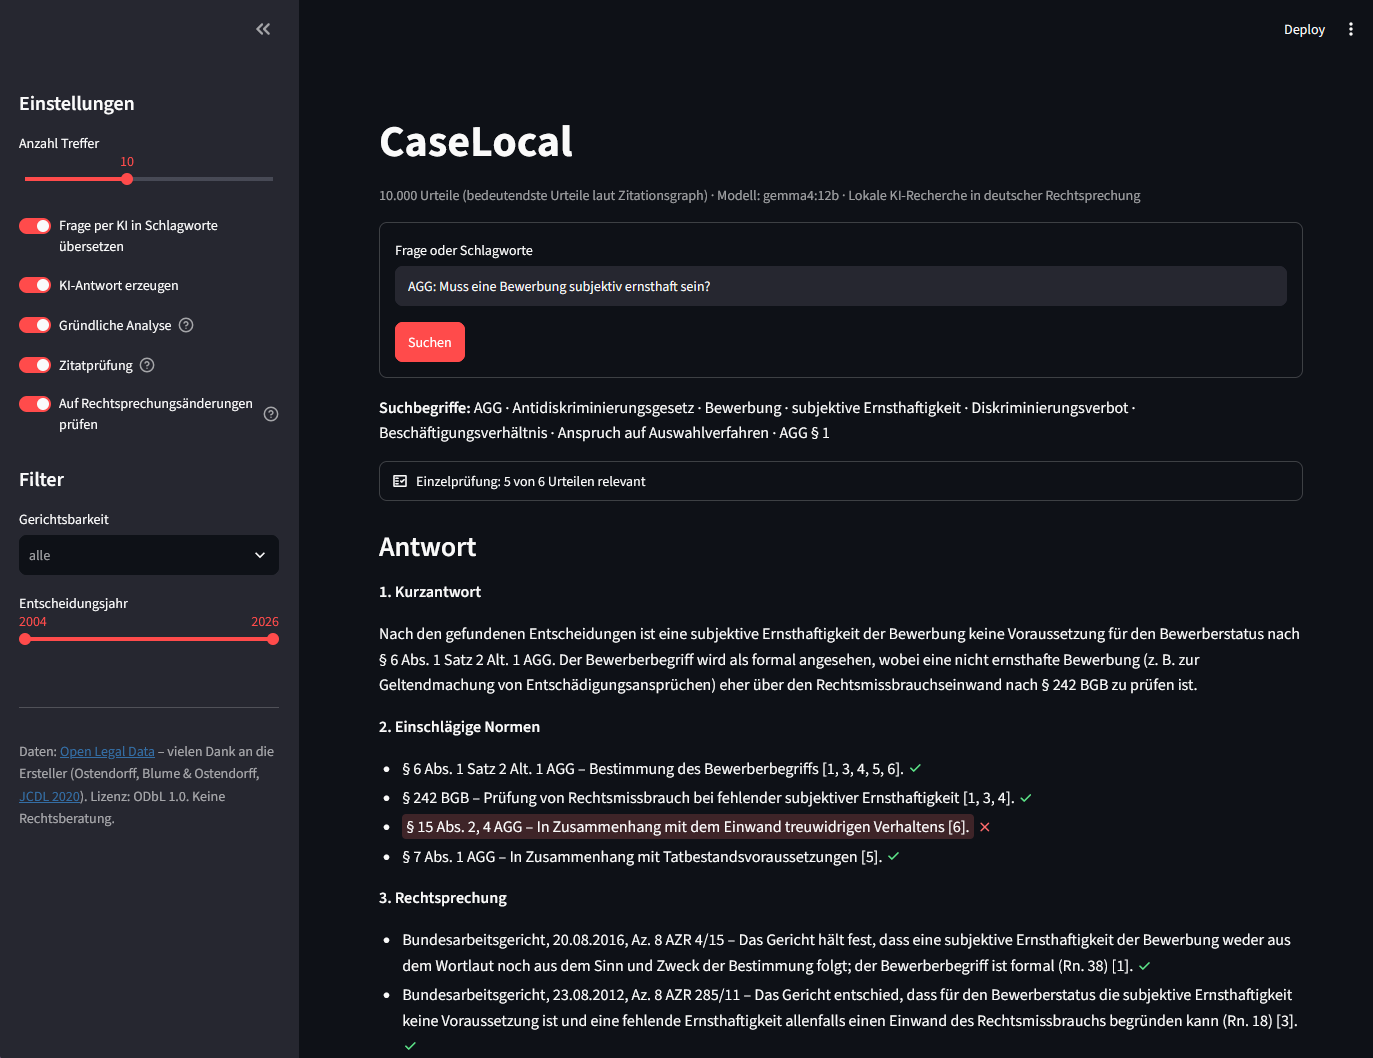
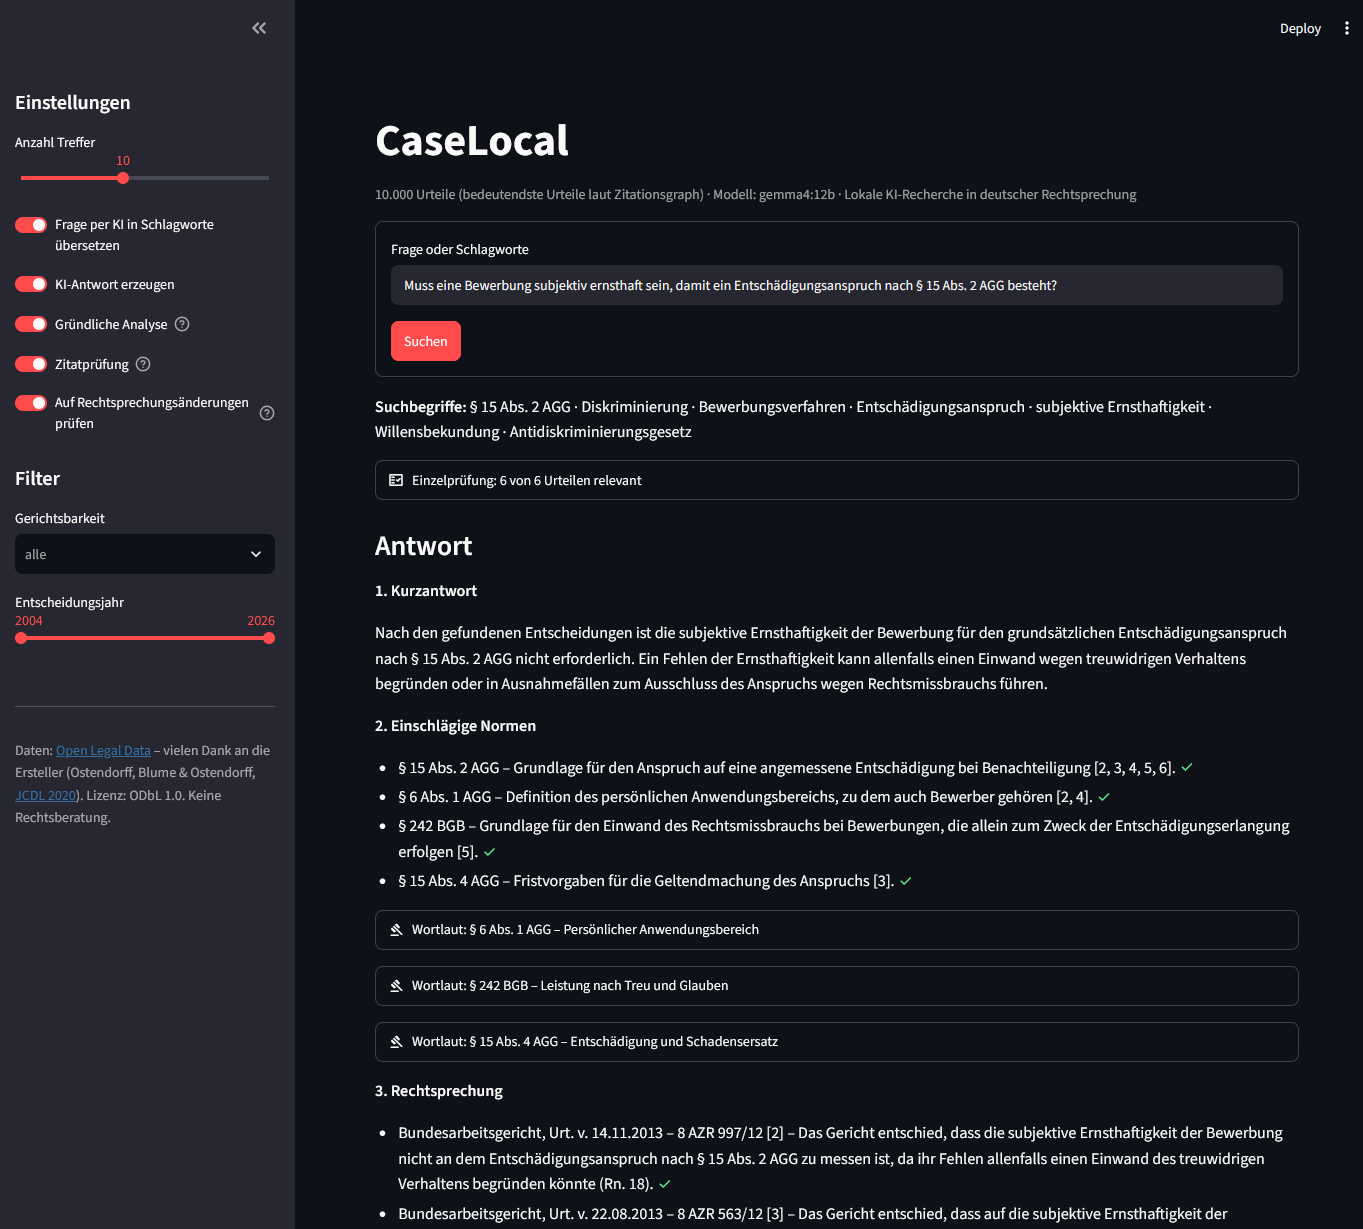
README: vier neue Screenshots als 2x2-Raster

Changed region(s): [[0.2773, 0.0936, 0.9552, 0.9981], [0.0, 0.0624, 0.2157, 0.7798], [0.9244, 0.0, 0.9861, 0.0312]]

diff --git a/README.md b/README.md
@@ -6,17 +6,28 @@ Recherche in den 10.000 bedeutendsten deutschen Gerichtsentscheidungen – mit h
 
 > **Datengrundlage:** CaseLocal nutzt den Urteilsdatensatz von [Open Legal Data](https://openlegaldata.io) (Ostendorff, Blume & Ostendorff, 2020). Das Sammeln, Aufbereiten und offene Bereitstellen von über 400.000 Gerichtsentscheidungen ist ihre Arbeit, nicht meine. Herzlichen Dank dafür! Details und Zitat: [Datengrundlage und Dank](#datengrundlage-und-dank).
 
-**Gegliederte Antwort:** Kurzantwort, einschlägige Normen und Rechtsprechung mit Randnummern. Jede belegte Aussage ist gegen das zitierte Urteil geprüft: gestützt (✓), nicht gestützt (rot markiert).
-
-![Gegliederte KI-Antwort mit geprüften Belegen](docs/screenshot1.png)
-
-**Rechtsprechungsänderungen und Zitatprüfung:** Die Antwort weist darauf hin, wenn ein Gericht seine frühere Linie aufgegeben hat. Darunter steht die Bilanz der Zitatprüfung, die Treffer zeigen Instanz, Zitierhäufigkeit und Jahr.
-
-![Hinweis auf Rechtsprechungsänderung und Bilanz der Zitatprüfung](docs/screenshot2.png)
-
-**Fundstelle im Urteil:** der passende Abschnitt der Gründe mit Randnummern und verlinkten Normen. Urteile, die die KI-Einzelprüfung als nicht einschlägig einstuft, werden als „aussortiert“ gekennzeichnet.
-
-![Fundstelle mit Randnummern und verlinkten Normen](docs/screenshot3.png)
+<table>
+  <tr>
+    <td width="50%" valign="top">
+      <a href="docs/screenshot1.png"><img src="docs/screenshot1.png" alt="Gegliederte KI-Antwort mit Normen im Wortlaut"></a><br>
+      <sub><b>Gegliederte Antwort:</b> Gericht, Datum und Aktenzeichen aus der Datenbank, jede belegte Aussage geprüft (✓). Unter „Einschlägige Normen“ lässt sich der Wortlaut aufklappen.</sub>
+    </td>
+    <td width="50%" valign="top">
+      <a href="docs/screenshot2.png"><img src="docs/screenshot2.png" alt="Einzelprüfung jedes gefundenen Urteils"></a><br>
+      <sub><b>Einzelprüfung:</b> Das Modell prüft jedes Urteil einzeln. Was hat das Gericht entschieden, in welcher Randnummer? Unpassende Urteile werden aussortiert.</sub>
+    </td>
+  </tr>
+  <tr>
+    <td width="50%" valign="top">
+      <a href="docs/screenshot3.png"><img src="docs/screenshot3.png" alt="Rechtsprechungsänderung, Unionsrecht und Zitatprüfung"></a><br>
+      <sub><b>Per Code ergänzt:</b> Rechtsprechungsänderung (ändernde und dort zitierte Entscheidung), Verweis auf die EuGH-Vorlage und die Bilanz der Zitatprüfung.</sub>
+    </td>
+    <td width="50%" valign="top">
+      <a href="docs/screenshot4.png"><img src="docs/screenshot4.png" alt="Trefferkarte mit zitierten Normen und Fundstelle"></a><br>
+      <sub><b>Trefferkarte:</b> Instanz, Zitierhäufigkeit, Tenor, die meistzitierten Normen des Urteils und die Fundstelle mit Randnummern und verlinkten Normen.</sub>
+    </td>
+  </tr>
+</table>
 
 ## Was das Projekt kann
 
